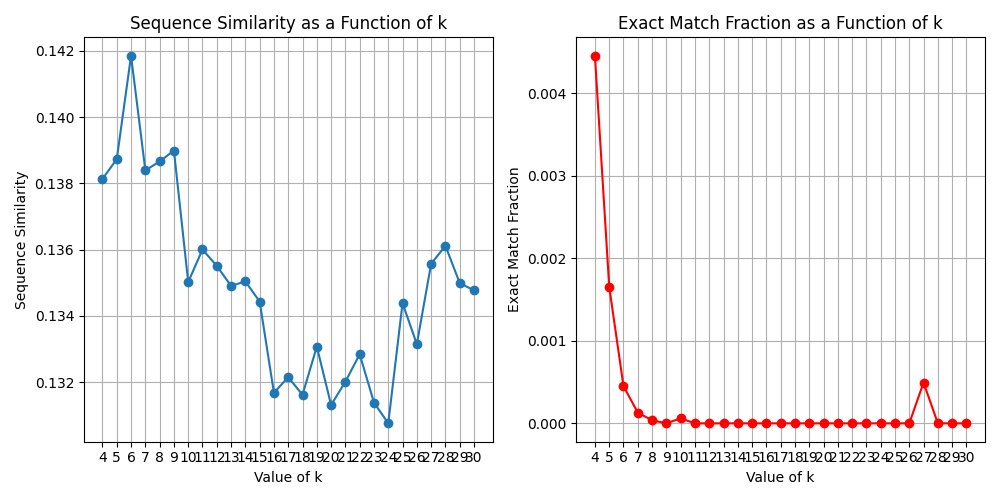
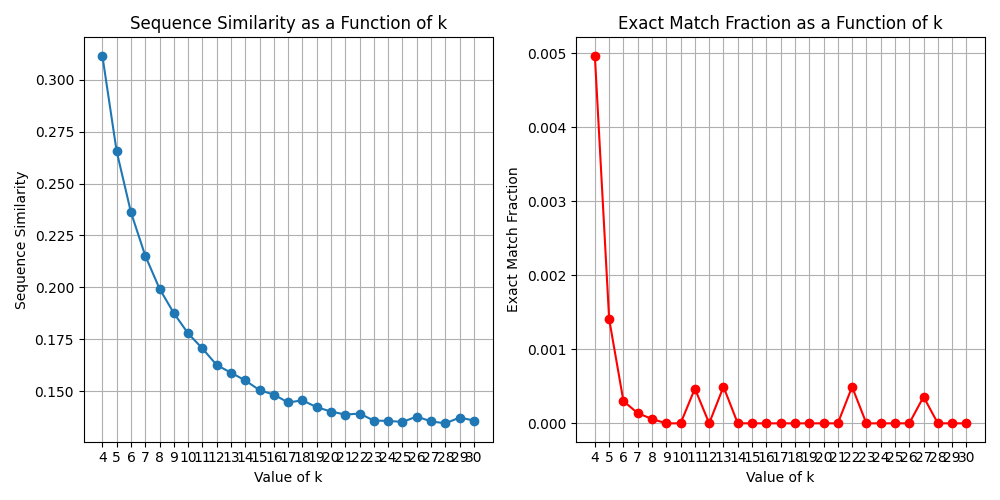
Update

diff --git a/simulations/avg_mismatch/main.py b/simulations/avg_mismatch/main.py
@@ -177,7 +177,7 @@ def compute_mismatch_average_for_k(sequence, k):
     mismatch_counts, exact_matches, total_kmers = find_mismatched_kmers(mutated_reads, k, w, minimizer_table, rymer_table)
 
     # Calculate the average excluding zero mismatches
-    non_zero_mismatches = [count for count in mismatch_counts]
+    non_zero_mismatches = [count for count in mismatch_counts if count > 0]
     average_mismatch = sum(non_zero_mismatches) / len(non_zero_mismatches) if non_zero_mismatches else 0
 
     return average_mismatch, exact_matches / total_kmers if total_kmers else 0
